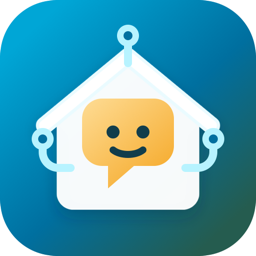
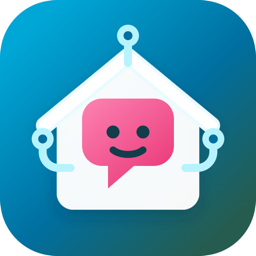
Use Hospitable pink brand accent

Changed region(s): [[0.3125, 0.375, 0.6875, 0.75]]

diff --git a/docs/Overview.md b/docs/Overview.md
@@ -76,6 +76,7 @@ Use either:
 
 ## Change Log
 
+- 2026-08-06: Updated icon/logo accent from yellow to Hospitable-style pink.
 - 2026-08-06: Added original icon/logo brand assets inspired by the Hospitable and Home Assistant project contexts.
 - 2026-08-06: Fixed zero-entity setup by preserving property aliases and creating placeholder properties for configured IDs without matching `/properties` records.
 - 2026-08-06: Fixed reservation query parameters to use `properties[]`, added check-in/check-out reservation lookups, improved API error messages, and changed outbound guest message payload to `body`.
